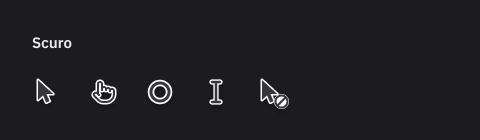
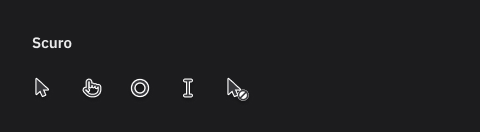
Puntatore a 24x24: scala 0,75 dal disegno a 32, ombre e foto aggiornate

diff --git a/disegni/Puntatore/descrizione.md b/disegni/Puntatore/descrizione.md
@@ -6,6 +6,9 @@ Fonte: Figma "mshell – interfaccia" (X9g7EOJgKBlE4QjmjrTLFt), pagina "Puntator
 
 **Regola (deciso dalla persona): il puntatore è uguale nei due temi.** Forma scura, contorno bianco, stessa ombra. Cambia solo lo sfondo su cui sta.
 
+## Misura: 24×24, scala 0,75 dal disegno a 32
+Canvas di ogni variante 24×24, tutto scalato per 0,75 (tracciati, spessori, ombre). Punto caldo sulla punta: freccia (Idle, Disabilitato) a x=4,5 y=3 (prima 6,4). Spessori contorno/forma: Idle e Disabilitato 2,25 (contorno), Link 3,75 / 1,5, Caricamento 4,875 / 2,25, Paragrafo 3,9 / 1,8, divieto di Disabilitato 2,25 / 1,5. Foto aggiornate (anche in `Scrivania/figma/puntatore-24-*.png`).
+
 ## Le cinque forme (variante Tipo=...)
 Idle (Normale, freccia) 95:756; Link (Collegamento, mano) 95:761; Caricamento (Attesa, cerchio) 95:776; Paragrafo (Testo, I-beam) 95:783; Disabilitato (Non disponibile, freccia con divieto) 97:882.
 Ogni forma ha due parti: "contorno" (sotto) e "forma" (sopra).
@@ -16,8 +19,8 @@ Ogni forma ha due parti: "contorno" (sotto) e "forma" (sopra).
 - Nel Caricamento l'anello di fondo usa il riempimento al 22% di opacità.
 
 ## Ombra: stile `ombra/puntatore` (su ogni variante)
-- Prima: y=1, sfocatura 1 (Figma; 0,5 di sigma), spread 0, nero, colore `effetto/ombra/puntatore/1-colore` = opacità 0,20.
-- Seconda: y=3, sfocatura 6 (Figma; 3 di sigma), spread -1, nero, colore `effetto/ombra/puntatore/2-colore` = opacità 0,26.
+- Prima: y=0,75, sfocatura 0,75 (Figma; 0,375 di sigma), spread 0, nero, colore `effetto/ombra/puntatore/1-colore` = opacità 0,20.
+- Seconda: y=2,25, sfocatura 4,5 (Figma; 2,25 di sigma), spread -0,75, nero, colore `effetto/ombra/puntatore/2-colore` = opacità 0,26.
 - Stessi valori in Chiaro e Scuro (prima il Scuro aveva 0,55).
 
 ## Note

diff --git a/disegni/Scrivania/descrizione.md b/disegni/Scrivania/descrizione.md
@@ -36,3 +36,4 @@ Fonte: Figma "mshell – interfaccia" (X9g7EOJgKBlE4QjmjrTLFt).
 - Il pulsante App nella schermata del vassoio e' in stato Premuto (variante "Pulsante App=Premuto" 148:710) finche' il vassoio e' aperto, come nel codice.
 - Vassoio app (componente 148:534, 3 colonne): 8 voci nell'ordine del codice, prima le app del sistema (Attività 148:536, Doom 148:547, Files 148:557, Impostazioni 148:565, Store 148:574, Terminale 148:582), poi le altre per nome (Contatore 285:5883, Esempio 285:5888, simbolo pacchetto). Altezza 252.
 - Vassoio delle app aperto (148:862): centrato in altezza sulla userbar (centro del vassoio = centro della pillola = y 400; vassoio alto 252, a y 274).
+- Puntatore 24×24 (decisione della persona): scala 0,75 dal disegno a 32, foto `figma/puntatore-24-chiaro.png` e `figma/puntatore-24-scuro.png`. Ombra `ombra/puntatore` nuova: 1ª y=0,75 sfocatura 0,75 spread 0; 2ª y=2,25 sfocatura 4,5 spread -0,75. Dettagli in `disegni/Puntatore/descrizione.md`.
